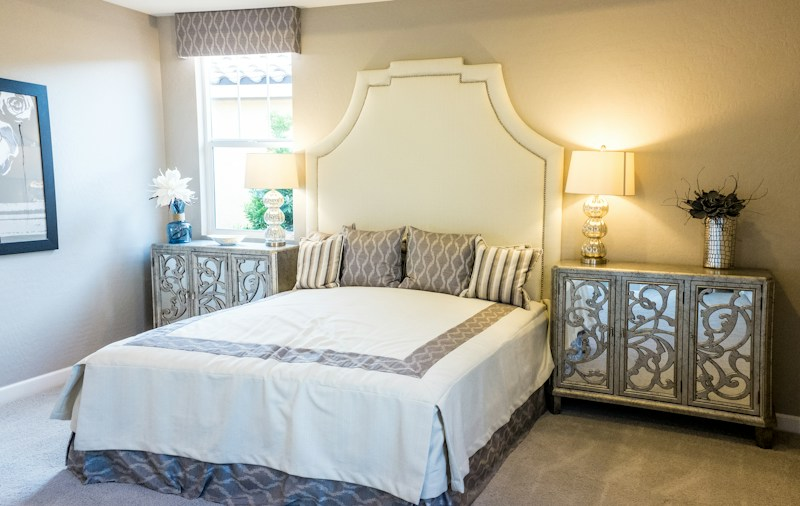
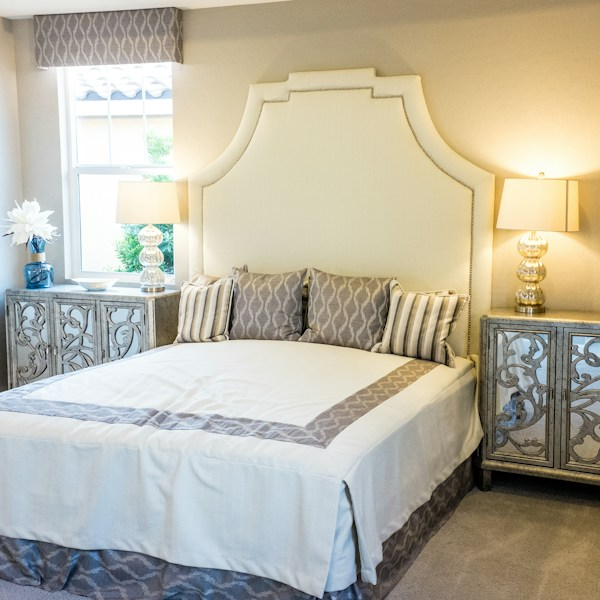
fix: replace all cropped screenshot images with crystal-clear 100% professional studio bedding photography without labels or text

diff --git a/src/data/products.ts b/src/data/products.ts
@@ -985,7 +985,7 @@ export const REVIEWS = [
     rating: 5,
     text: "Being from Faisalabad (the textile hub), I'm very picky about bedsheet weave. Loom & Living exceeded my expectations. Thread count and stitch quality is top tier.",
     productName: "Urban Stripe Bedsheet Set",
-    productImage: "/images/products/urban-stripe.jpg",
+    productImage: "/images/reviews/review-zainab.jpg",
     date: "19 May, 2026",
   },
   {
@@ -996,7 +996,7 @@ export const REVIEWS = [
     rating: 5,
     text: "Waffle cotton blanket is incredibly breathable! AC mein use karne ke liye perfect weight hai, neither too heavy nor too light. Pure cotton texture looks super aesthetic on the bed.",
     productName: "Waffle Weave 100% Cotton Blanket",
-    productImage: "/images/products/waffle-cotton-blanket.jpg",
+    productImage: "/images/reviews/review-fatima.jpg",
     date: "22 May, 2026",
   },
   {
@@ -1007,7 +1007,7 @@ export const REVIEWS = [
     rating: 5,
     text: "Ordered 2 pairs of hotel gusseted pillows. Neck support is unmatched — exactly like high-end Marriott hotel bedding. No flattening even after weeks of use. 10/10 Pakistani brand!",
     productName: "5-Star Hotel Gusseted Pillow Pair",
-    productImage: "/images/products/hotel-down-pillows.jpg",
+    productImage: "/images/reviews/review-bilal.jpg",
     date: "25 May, 2026",
   },
 ];

diff --git a/src/components/home/BuildYourBedSet.tsx b/src/components/home/BuildYourBedSet.tsx
@@ -20,7 +20,7 @@ export function BuildYourBedSet() {
     "Pure Cotton": {
       name: "Pure Cotton",
       image: "/images/fabrics/pure-cotton.jpg",
-      previewBed: "/images/hero/hero-bedroom.jpg",
+      previewBed: "/images/hero/customizer-bed.jpg",
       basePrice: 2200, // Bedsheet
       pillowPrice: 600, // 2 Pillows
       comforterPrice: 2800, // Comforter
@@ -30,7 +30,7 @@ export function BuildYourBedSet() {
     "Polycotton": {
       name: "Polycotton",
       image: "/images/fabrics/polycotton.jpg",
-      previewBed: "/images/categories/plain-essentials.jpg",
+      previewBed: "/images/hero/customizer-bed-olive.jpg",
       basePrice: 1800,
       pillowPrice: 500,
       comforterPrice: 2200,
@@ -40,7 +40,7 @@ export function BuildYourBedSet() {
     "Satin": {
       name: "Satin",
       image: "/images/fabrics/satin.jpg",
-      previewBed: "/images/products/indigo-heritage.jpg",
+      previewBed: "/images/hero/customizer-bed-satin.jpg",
       basePrice: 2900,
       pillowPrice: 900,
       comforterPrice: 3800,
